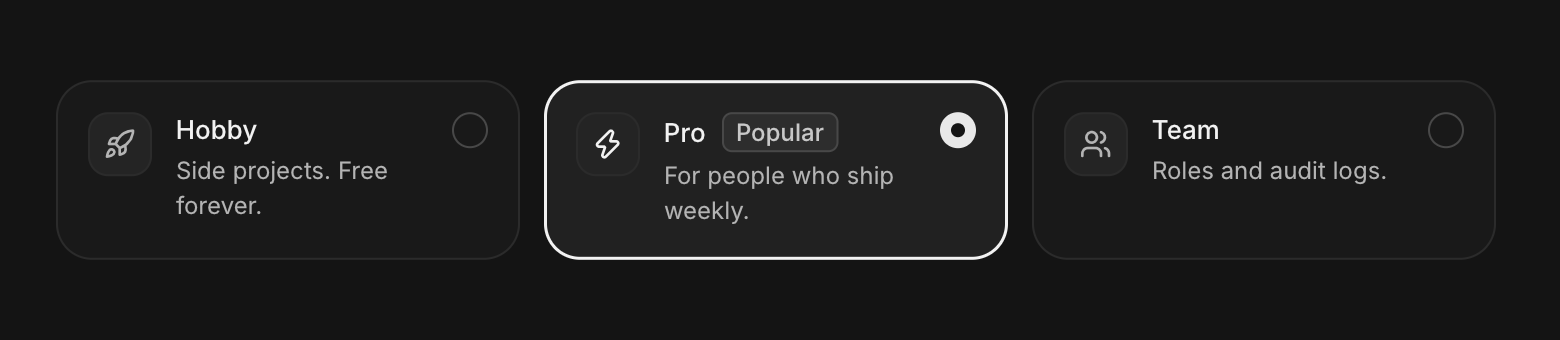
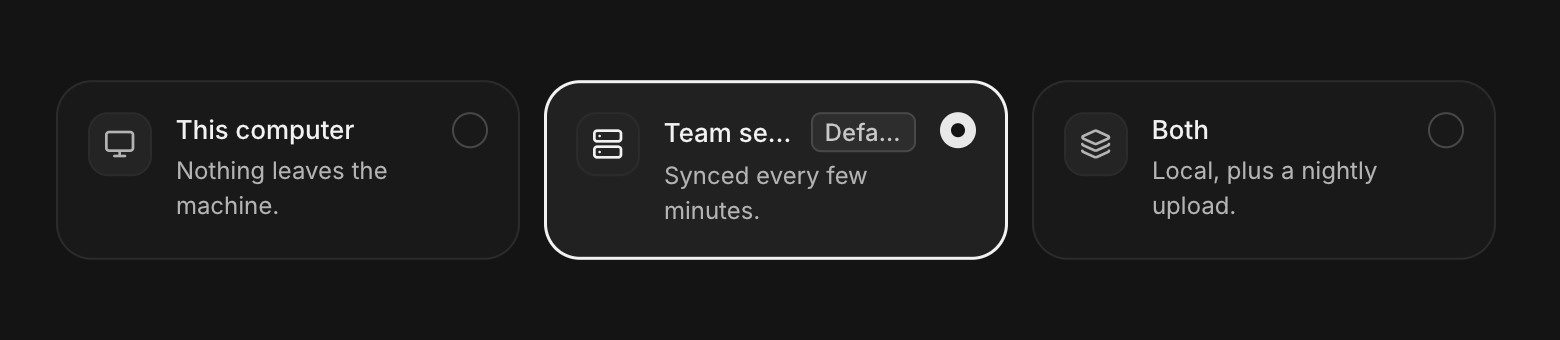
Choices that are not price plans; the accent pair in the README uses green
Radio cards and groups pick where and how often a project is saved instead
of Hobby, Pro and Team plans with a Popular badge. The dark overview beside
the light one shows the green accent.

diff --git a/examples/gallery_ui.c b/examples/gallery_ui.c
@@ -315,18 +315,18 @@ static void page_selection(cui_ctx *ui, gallery *g) {
     }
     section(ui, "Radio group", NULL);
     cui_card(ui, .gap = 12) {
-        cui_radio(ui, "Hobby", &g->plan, 0, .description = "For side projects. Free forever.");
-        cui_radio(ui, "Pro", &g->plan, 1, .description = "For professionals. $12 per month.");
-        cui_radio(ui, "Team", &g->plan, 2, .description = "For growing teams. $49 per month.");
+        cui_radio(ui, "Every change", &g->plan, 0, .description = "Save as you type. Uses the most disk.");
+        cui_radio(ui, "Every 5 minutes", &g->plan, 1, .description = "A good balance for most projects.");
+        cui_radio(ui, "Only when I save", &g->plan, 2, .description = "Nothing is written until you press Ctrl S.");
     }
     section(ui, "Radio cards", "For choices that need a sentence of explanation.");
     {
-        static const cui_choice plans[] = {
-            { "Hobby", "Side projects and experiments. Free forever.", CUI_ICON_ROCKET, NULL },
-            { "Pro", "For professionals who ship every week.", CUI_ICON_ZAP, "Popular" },
-            { "Team", "Shared workspaces, roles and audit logs.", CUI_ICON_USERS, NULL },
+        static const cui_choice places[] = {
+            { "This computer", "Saved next to the project. Nothing leaves the machine.", CUI_ICON_MONITOR, NULL },
+            { "Team server", "Synced to your company server every few minutes.", CUI_ICON_SERVER, "Default" },
+            { "Both", "A local copy, uploaded to the server every night.", CUI_ICON_LAYERS, NULL },
         };
-        cui_radio_cards(ui, "plans", plans, 3, &g->plan_card);
+        cui_radio_cards(ui, "places", places, 3, &g->plan_card);
     }
     section(ui, "Sliders", "Drag past either end: the track stretches like rubber.");
     cui_card(ui, .gap = 20) {

diff --git a/tests/component_shots.c b/tests/component_shots.c
@@ -334,12 +334,12 @@ static void scene_icons(cui_ctx *ui, int f) {
 
 SCENE(radio_cards) {
     static int sel = 1;
-    static const cui_choice plans[] = {
-        { "Hobby", "Side projects. Free forever.", CUI_ICON_ROCKET, NULL },
-        { "Pro", "For people who ship weekly.", CUI_ICON_ZAP, "Popular" },
-        { "Team", "Roles and audit logs.", CUI_ICON_USERS, NULL },
+    static const cui_choice places[] = {
+        { "This computer", "Nothing leaves the machine.", CUI_ICON_MONITOR, NULL },
+        { "Team server", "Synced every few minutes.", CUI_ICON_SERVER, "Default" },
+        { "Both", "Local, plus a nightly upload.", CUI_ICON_LAYERS, NULL },
     };
-    cui_box(ui, .width = CUI_PX(720)) { cui_radio_cards(ui, "plans", plans, 3, &sel); }
+    cui_box(ui, .width = CUI_PX(720)) { cui_radio_cards(ui, "places", places, 3, &sel); }
 }
 SCENE(tag_otp) {
     static char tags[128] = "design, c99, native";

diff --git a/tests/screenshots.c b/tests/screenshots.c
@@ -89,8 +89,8 @@ int main(int argc, char **argv) {
         fails += shoot(path, PAGE_OVERLAYS, false, 1, 1240, 800, 90, open_sheet);
         snprintf(path, sizeof path, "%s/toasts-light.png", dir);
         fails += shoot(path, PAGE_FEEDBACK, false, 0, 1240, 800, 60, toasts);
-        snprintf(path, sizeof path, "%s/overview-violet-dark.png", dir);
-        fails += shoot(path, PAGE_OVERVIEW, true, 1, 1240, 1000, 90, NULL);
+        snprintf(path, sizeof path, "%s/overview-green-dark.png", dir);
+        fails += shoot(path, PAGE_OVERVIEW, true, CUI_ACCENT_GREEN, 1240, 1000, 90, NULL);
         snprintf(path, sizeof path, "%s/selection-blue-light.png", dir);
         fails += shoot(path, PAGE_SELECTION, false, 2, 1240, 1000, 90, NULL);
     }

diff --git a/tests/render_smoke.c b/tests/render_smoke.c
@@ -32,7 +32,7 @@ static void ui_frame(cui_ctx *ui) {
             cui_progress(ui, 0.62f, .label = "Storage", .show_value = true);
             cui_skeleton(ui, CUI_PX(220), 12);
         }
-        cui_alert(ui, "Your trial ends in 3 days", .description = "Upgrade to keep your projects.", .tone = CUI_TONE_WARNING, .dismissible = true);
+        cui_alert(ui, "Disk almost full", .description = "Builds stop when less than 2 GB is left.", .tone = CUI_TONE_WARNING, .dismissible = true);
     }
 }
 

diff --git a/docs/components.md b/docs/components.md
@@ -120,7 +120,7 @@ cui_checkbox(ui, "Email notifications", &email, .description = "Product news, mo
 cui_switch(ui, "Wi-Fi", &wifi);
 cui_radio(ui, "Monthly", &billing, 0);
 cui_radio(ui, "Yearly", &billing, 1);
-cui_radio_group(ui, "plan", (const char *[]){ "Hobby", "Pro", "Team" }, 3, &plan);
+cui_radio_group(ui, "autosave", (const char *[]){ "Every change", "Every 5 minutes", "Only when I save" }, 3, &autosave);
 ```
 
 Each returns true when it changes the value. The whole row, label included, is clickable. A switch applies immediately; a checkbox is for choices confirmed later with a button. Options: `description`, `disabled`, `indeterminate` (checkbox). Keyboard: Space toggles.
@@ -519,12 +519,12 @@ PNG and JPEG are decoded out of the box. Configure with `-DCUI_IMAGE_ALL_FORMATS
 <picture><source media="(prefers-color-scheme: dark)" srcset="images/components/radio-cards-dark.png"><img src="images/components/radio-cards.png" alt="Radio cards"></picture>
 
 ```c
-static const cui_choice plans[] = {
-    { "Hobby", "Side projects. Free forever.", CUI_ICON_ROCKET, NULL },     /* title, description, icon, badge */
-    { "Pro", "For people who ship weekly.", CUI_ICON_ZAP, "Popular" },
-    { "Team", "Roles and audit logs.", CUI_ICON_USERS, NULL },
+static const cui_choice places[] = {
+    { "This computer", "Nothing leaves the machine.", CUI_ICON_MONITOR, NULL },     /* title, description, icon, badge */
+    { "Team server", "Synced every few minutes.", CUI_ICON_SERVER, "Default" },
+    { "Both", "Local, plus a nightly upload.", CUI_ICON_LAYERS, NULL },
 };
-cui_radio_cards(ui, "plan", plans, 3, &plan, .columns = 3);
+cui_radio_cards(ui, "place", places, 3, &place, .columns = 3);
 ```
 
 Bigger targets for choices that need a sentence of explanation. Keyboard: arrows move the selection.

diff --git a/docs/theming.md b/docs/theming.md
@@ -12,13 +12,13 @@ cui_set_accent(ui, CUI_ACCENT_BLUE);        /* NEUTRAL, VIOLET, BLUE, GREEN, AMB
 Both changes animate: every color blends over about 300 ms in OKLab, so the whole interface fades from one theme to the other instead of flashing. You can also pick them up front:
 
 ```c
-cui_app_create(&(cui_app_desc){ .theme = CUI_THEME_DARK, .accent = CUI_ACCENT_VIOLET });
+cui_app_create(&(cui_app_desc){ .theme = CUI_THEME_DARK, .accent = CUI_ACCENT_GREEN });
 cui_app_create(&(cui_app_desc){ .follow_system_theme = true });   /* Windows and macOS */
 ```
 
-| Neutral, light | Violet, dark |
+| Neutral, light | Green, dark |
 |---|---|
-| ![](images/overview-light.png) | ![](images/overview-violet-dark.png) |
+| ![](images/overview-light.png) | ![](images/overview-green-dark.png) |
 
 The neutral accent is near black in light mode and near white in dark mode. The colored accents are tuned per mode so text and controls keep their contrast.
 

diff --git a/README.md b/README.md
@@ -253,11 +253,11 @@ All of them are in [docs/components-more.md](docs/components-more.md), with scre
 
 | | |
 |---|---|
-| ![Overview in light](docs/images/overview-light.png) | ![Overview in dark with violet](docs/images/overview-violet-dark.png) |
+| ![Overview in light](docs/images/overview-light.png) | ![Overview in dark with the green accent](docs/images/overview-green-dark.png) |
 
 ```c
 cui_set_theme(ui, CUI_THEME_DARK);      /* animates */
-cui_set_accent(ui, CUI_ACCENT_VIOLET);  /* neutral, violet, blue, green, amber, orange, coral, rose */
+cui_set_accent(ui, CUI_ACCENT_BLUE);    /* neutral, violet, blue, green, amber, orange, coral, rose */
 ```
 
 All colors are semantic tokens (`CUI_COLOR_SURFACE`, `CUI_COLOR_TEXT_SECONDARY`, `CUI_COLOR_ACCENT`...), so your own boxes follow the theme too. Try any app in the other theme with `CUI_THEME=dark` or `CUI_THEME=light`. See [Theming](docs/theming.md).
